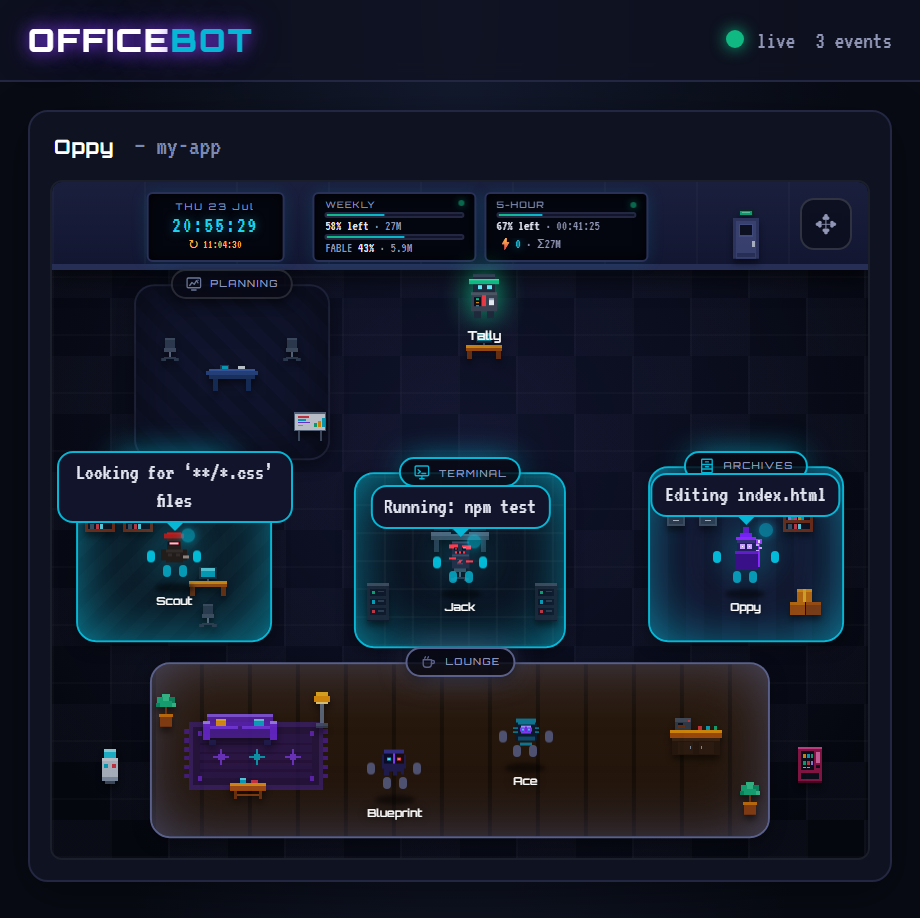
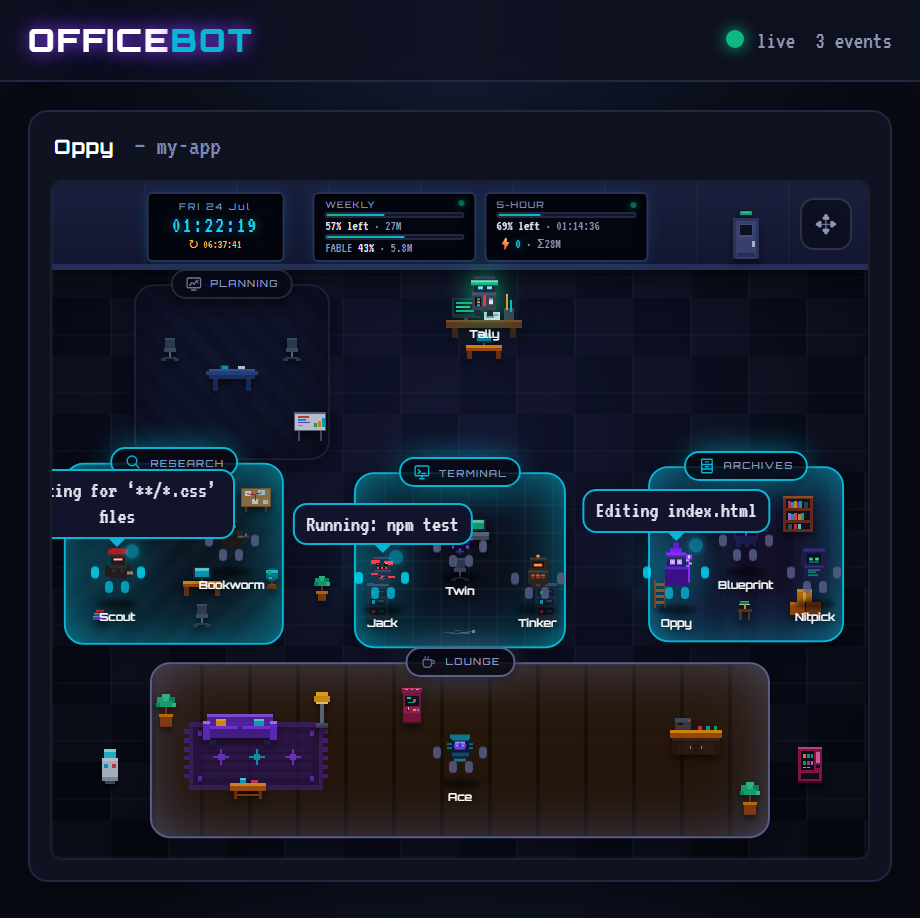
README: "Meet the office" tour + fresh screenshots
The README predated the office overhaul. Add a tour section covering the
boss personas/ranks per model and the shift-change theatre, the full
eight-member crew table (name, agent type, role, home room), job takeovers
(delegated AND harness-internal work), wandering + room-aware
conversations, reaction FX, character bios, and Tally's meters. Reshot
both screenshots from the current build (bigger office, Tally's desk,
room pairs, props) using demo data.

Claude-Session: https://claude.ai/code/session_01PkFaDiCzEr1kaybEh9TPcC

diff --git a/README.md b/README.md
@@ -1,9 +1,9 @@
 # officebot
 
-**A live pixel-art "office" for your Claude Code sessions.** Watch your agents
-walk in, think, run tools, delegate to subagents, banter in the lounge, and
-clock out — with a real usage/limit tracker on the wall. It's a fun, glanceable
-window into what Claude Code is doing.
+**A live pixel-art "office" for your Claude Code sessions.** Every session
+becomes an office floor with a full cast of characters: the boss (your model)
+delegates, the crew works the rooms, everyone banters — and it's all driven by
+real events. It's a fun, glanceable window into what Claude Code is doing.
 
 Zero dependencies. Runs entirely on your machine. **Nothing is ever sent
 anywhere** — it just reads your local Claude Code logs and serves a page on
@@ -11,7 +11,48 @@ anywhere** — it just reads your local Claude Code logs and serves a page on
 
 ![officebot dashboard](docs/screenshot.png)
 
-*Each Claude Code session becomes an office floor: the boss (your model) and its subagents walk between rooms depending on what they're doing — Research, Terminal, Archives, Planning — with live speech bubbles and a token-usage meter on the wall.*
+*A live moment: Scout searching in Research, Jack running tests in Terminal,
+the boss editing in Archives — real tool calls, real speech bubbles, while the
+rest of the crew holds down their rooms.*
+
+---
+
+## Meet the office
+
+**The boss is whichever Claude model is running your session**, each with a
+persona and an office rank: **Fabby** the Director (Fable), **Oppy** the
+Manager (Opus), **Sonny** the Lead (Sonnet), **Kiku** the scrappy Senior
+Staffer (Haiku). Switch models (`/model`) and the outgoing boss hands the desk
+over — walks out while the new one walks in — with the crew commenting on the
+new management (Haiku gets roasted; nobody escapes the workers' banter).
+
+**The crew are your agent types**, each with a name, a face, a profession and
+a home room:
+
+| | Agent type | Role | Home |
+|---|---|---|---|
+| **Scout** | `Explore` | recon & exploration | Research |
+| **Bookworm** | `claude-code-guide` | docs & knowledge | Research |
+| **Jack** | `general-purpose` | the handyman | Lounge |
+| **Ace** | `claude` | the wildcard | Lounge |
+| **Blueprint** | `Plan` | planner / architect | Archives |
+| **Nitpick** | `code-reviewer` | code review / QA | Archives |
+| **Twin** | `fork` | parallel worker | Terminal |
+| **Tinker** | `statusline-setup` | tooling & config | Terminal |
+
+When the boss delegates to one of these types, that crew member leaves their
+spot and *works the job* — then walks back when it's done. Even Claude Code's
+internal background tasks get picked up by whoever's profession fits closest.
+Custom agent types get their own generated codenames.
+
+**And the office lives on its own:** the crew wanders between rooms, whoever
+shares a room strikes up profession-flavoured conversations (with the
+occasional shout across the floor), turns that finish cleanly get confetti,
+failures get a red "!", hand-backs get a ✓ and sometimes a spoken review from
+the boss. **Hover (or tap) any character for their bio.** Tally the accountant
+mans the wall meters — the live clock, your 5-hour window and weekly usage —
+and pipes up only when the burn actually climbs. When a limit is truly spent,
+the whole office clocks out one by one… and drifts back in when it resets.
 
 ---
 